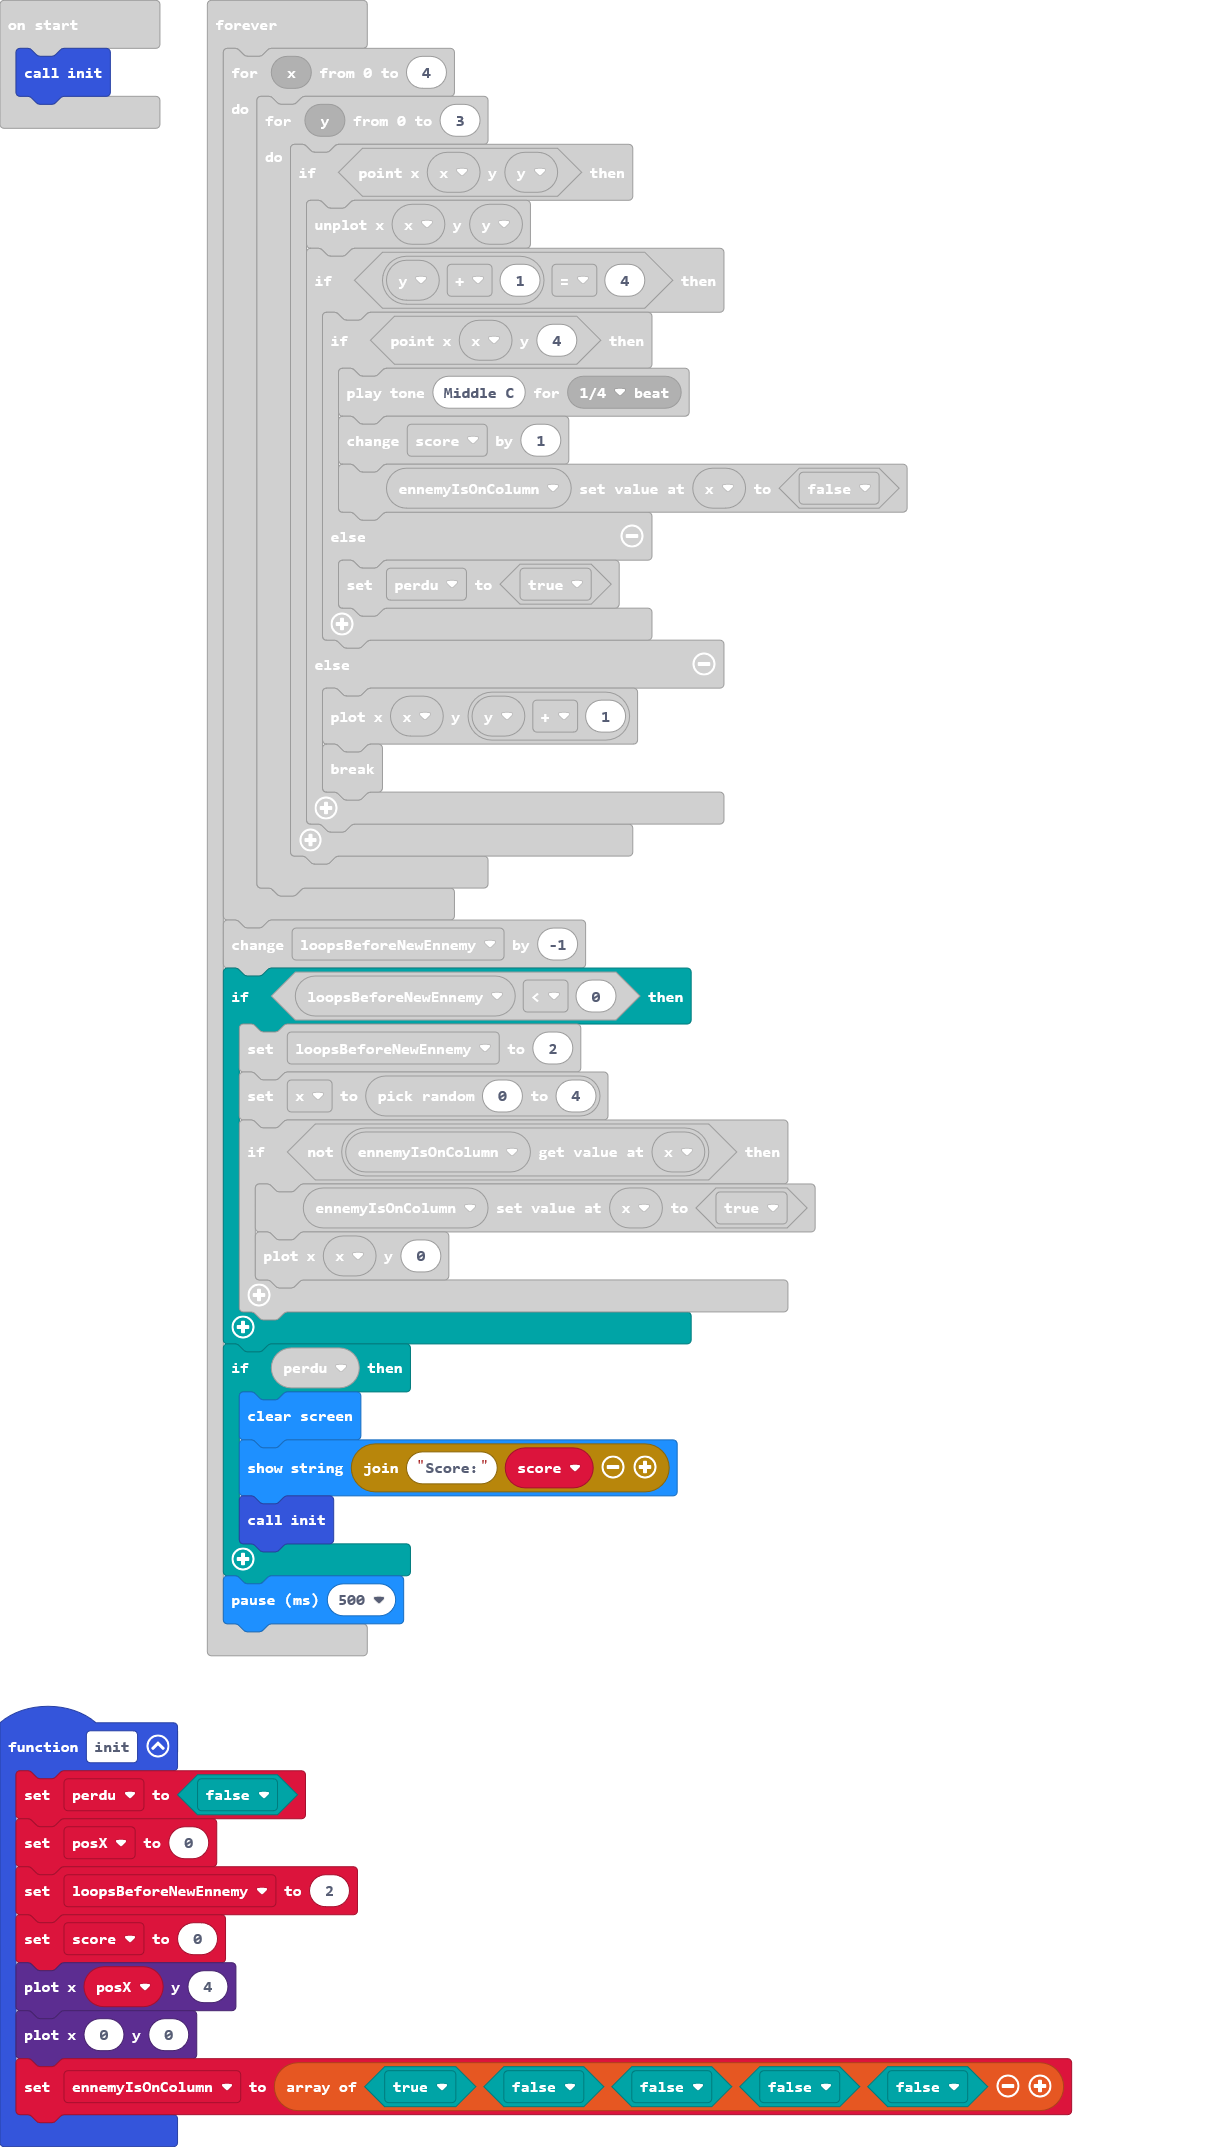
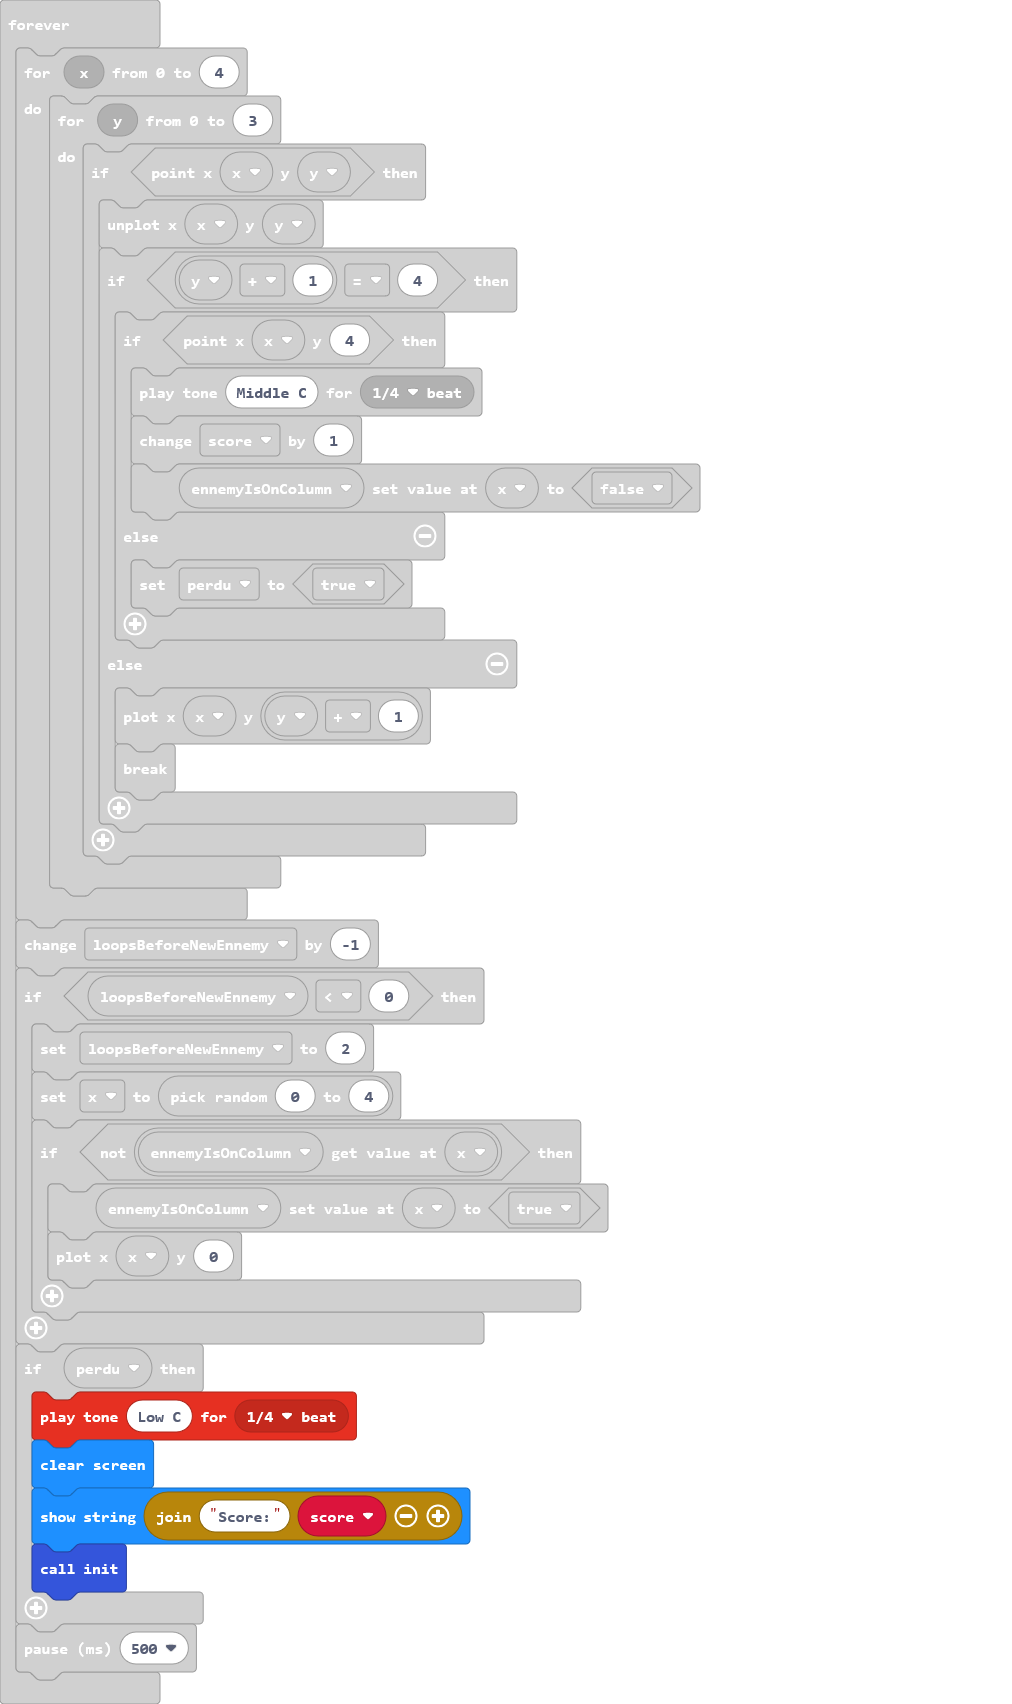
Update main.blocks, main.ts

diff --git a/main.ts b/main.ts
@@ -60,6 +60,7 @@ basic.forever(function () {
         }
     }
     if (perdu) {
+        music.playTone(131, music.beat(BeatFraction.Quarter))
         basic.clearScreen()
         basic.showString("Score:" + score)
         init()
